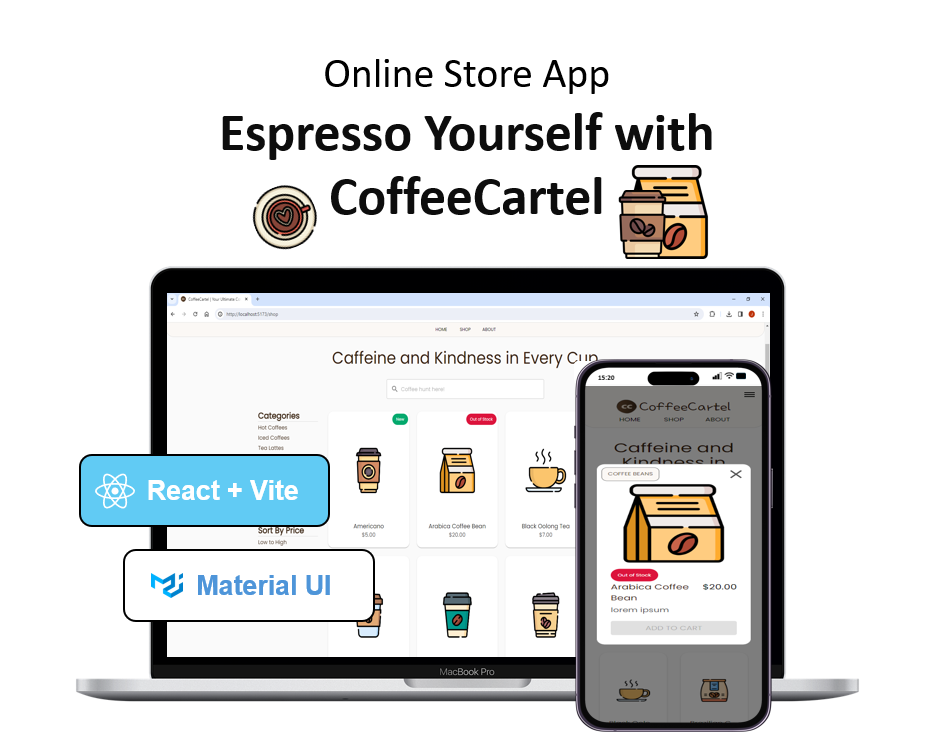
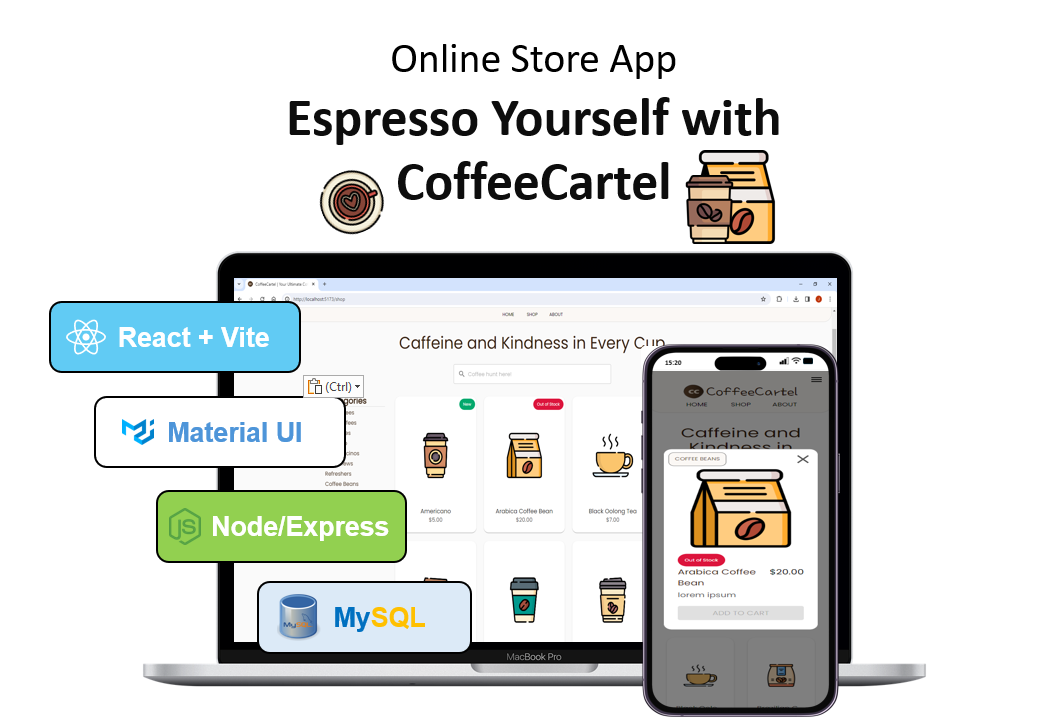
new updates 6/3

Changed region(s): [[0.0309, 0.0605, 0.9275, 0.9986], [0.4638, 0.5447, 0.5256, 0.6657], [0.4638, 0.696, 0.5256, 0.7263]]

diff --git a/src/components/ui/MobileMenu.jsx b/src/components/ui/MobileMenu.jsx
@@ -4,7 +4,7 @@
  * Description: Represents the nav mobile menu for users
  */
 
-import AccountCircleOutlinedIcon from "@mui/icons-material/AccountCircleOutlined";
+import { AvatarIcon } from "./AvatarIcon";
 import { color } from "../../data/constants";
 import { Menu, MenuItem, Stack, Typography } from "@mui/material";
 import { useState } from "react";
@@ -41,10 +41,12 @@ export const MobileMenu = ({ user, LogOut }) => {
         spacing={0.5}
         onClick={handleOpenMenu}
       >
-        <AccountCircleOutlinedIcon
+        <AvatarIcon
           sx={{
-            display: { xs: "flex", sm: "none" },
-            color: color.black,
+            width: "24px",
+            height: "24px",
+            fontSize: "12px",
+            bgcolor: color.lightChocolate,
           }}
         />
         <Typography variant="body2" color={color.black}>

diff --git a/src/components/ui/AvatarIcon.jsx b/src/components/ui/AvatarIcon.jsx
@@ -5,20 +5,23 @@
  */
 
 import { Avatar } from "@mui/material";
+import { useContext } from "react";
+import { UserContext } from "../../context/UserContext";
 
-export const AvatarIcon = () => {
+export const AvatarIcon = ({ sx }) => {
+  // Consume UserContext
+  const { user } = useContext(UserContext);
   return (
     <>
       <Avatar
-        alt="H"
-        sx={{
-          margin: "0 auto",
-          width: { xs: "110px", sm: "150px" },
-          height: { xs: "110px", sm: "150px" },
-          fontSize: { xs: "40px", sm: "60px" },
-        }}
+        alt={
+          user.fname.toUpperCase().charAt(0) +
+          user.lname.toUpperCase().charAt(0)
+        }
+        sx={sx}
       >
-        JK
+        {user.fname.toUpperCase().charAt(0) +
+          user.lname.toUpperCase().charAt(0)}
       </Avatar>
     </>
   );

diff --git a/src/components/containers/ProfileMaster.jsx b/src/components/containers/ProfileMaster.jsx
@@ -37,7 +37,15 @@ export const ProfileMaster = () => {
           </Grid>
 
           <Grid item xs={12} sm={5} paddingY={2}>
-            <AvatarIcon />
+            <AvatarIcon
+              sx={{
+                margin: "0 auto",
+                width: { xs: "110px", sm: "150px" },
+                height: { xs: "110px", sm: "150px" },
+                fontSize: { xs: "40px", sm: "60px" },
+                bgcolor: color.lightChocolate,
+              }}
+            />
           </Grid>
 
           <Grid item xs={12} sm={7}>

diff --git a/src/components/layout/Navbar.jsx b/src/components/layout/Navbar.jsx
@@ -12,7 +12,6 @@ import { Logo } from "../ui/Logo";
 import { NavButtonLinks } from "../ui/NavButtonLinks";
 import { MobileMenu } from "../ui/MobileMenu";
 import { Link } from "react-router-dom";
-
 import { useContext } from "react";
 import { UserContext } from "../../context/UserContext";
 

diff --git a/README.md b/README.md
@@ -1,4 +1,4 @@
-# CoffeeCartel (React + Vite)
+# CoffeeCartel (React/MUI/Express/MySQL)
 
 This repo contains source code for CoffeeCartel, a responsive online coffee store web app.
 
@@ -30,10 +30,14 @@ npm install
 ## Folder Structure
 
 ```
-coffeecartel-frontend
+coffeecartel-fullstack
 ├─ .eslintrc.cjs
+├─ .git
+├─ .gitattributes
 ├─ .gitignore
 ├─ index.html
+├─ main.jsx
+├─ netlify.toml
 ├─ package-lock.json
 ├─ package.json
 ├─ README.md
@@ -41,33 +45,41 @@ coffeecartel-frontend
 │  └─ products
 │     ├─ Almondmilk-Mocha.png
 │     ├─ Americano.png
+│     ├─ Arabica-Coffee-Bean.png
 │     └─ ...
 ├─ src
-│  ├─ main.jsx
 │  ├─ App.css
 │  ├─ App.jsx
 │  ├─ assets
 │  │  ├─ brand-logo.png
+│  │  ├─ cc-banner.PNG
 │  │  ├─ coffee-stand.png
 │  │  └─ ...
 │  ├─ components
 │  │  ├─ containers
+│  │  │  ├─ AdminMaster.jsx
 │  │  │  ├─ CartBox.jsx
 │  │  │  ├─ CartList.jsx
 │  │  │  └─ ...
 │  │  ├─ form
+│  │  │  ├─ LoginForm.jsx
+│  │  │  ├─ ProfileForm.jsx
+│  │  │  ├─ RegisterForm.jsx
 │  │  │  └─ Search.jsx
 │  │  ├─ layout
+│  │  │  ├─ AdminNavbar.jsx
 │  │  │  ├─ FilterButtonDrawer.jsx
 │  │  │  ├─ Footer.jsx
 │  │  │  ├─ Navbar.jsx
 │  │  │  └─ SideMenu.jsx
 │  │  └─ ui
+│  │     ├─ AccessButton.jsx
 │  │     ├─ AccordionDiagram.jsx
 │  │     ├─ AccountNavButton.jsx
 │  │     └─ ...
 │  ├─ context
-│  │  └─ CartContext.jsx
+│  │  ├─ CartContext.jsx
+│  │  └─ UserContext.jsx
 │  ├─ data
 │  │  ├─ constants.js
 │  │  └─ products.js
@@ -77,19 +89,23 @@ coffeecartel-frontend
 │  │  └─ ...
 │  ├─ hooks
 │  │  ├─ UseCartState.js
+│  │  ├─ UseUserState.js
 │  │  └─ UseWindowResize.js
 │  ├─ pages
 │  │  ├─ About.jsx
 │  │  ├─ Cart.jsx
-│  │  ├─ Home.jsx
-│  │  └─ Shop.jsx
+│  │  ├─ Forbidden.jsx
+│  │  └─ ...
 │  ├─ services
-│  │  └─ LocalStorage.js
+│  │  ├─ LocalStorage.js
+│  │  └─ UserApi.js
 │  ├─ theme
 │  │  └─ FontTheme.js
 │  └─ utils
-│     ├─ CalculateOrder.js
-│     └─ Filter.js
+│     ├─ AdminRoute.jsx
+│     ├─ Delay.js
+│     ├─ Filter.js
+│     └─ ...
 └─ vite.config.js
 
 ```
@@ -100,3 +116,6 @@ coffeecartel-frontend
 - Filter Products
 - Cart (CRUD)
 - Cart Saved to Local Storage
+- Login
+- Register
+- View/Edit Profile
